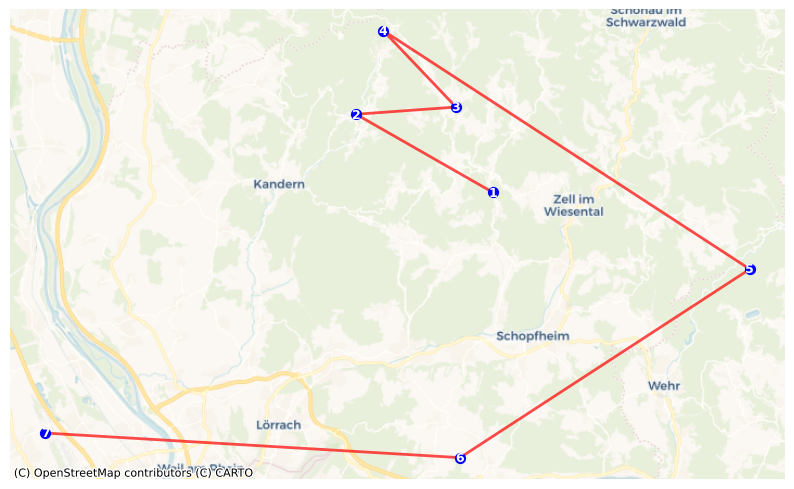
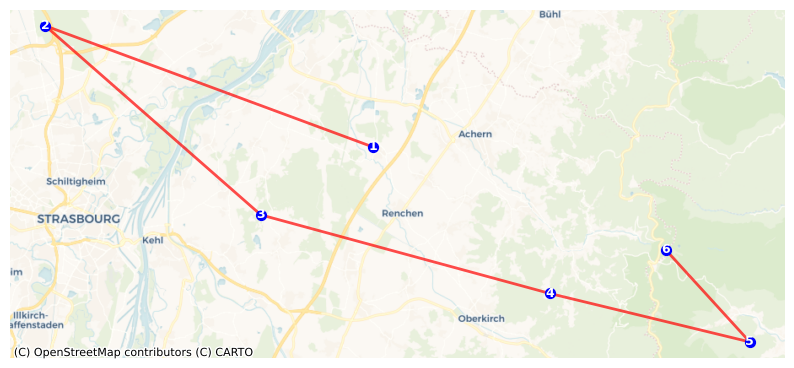
refactor

diff --git a/model_prediction.py b/model_prediction.py
@@ -1,0 +1,51 @@
+import numpy as np
+from sklearn.neighbors import NearestNeighbors
+from coordinate_utils import get_gps_data
+from generate_random_coordinates import generate_random_coordinates
+from optimization_problem import maximize_utility_with_distance_constraint
+from path_utils import get_case_study_image_paths, load_case_study_images
+from geopy.distance import geodesic
+from image_model_utils import extract_penultimate_features, get_anomaly_score
+from plot_solution import plot_path_on_map
+
+
+### Parameters ###
+MAXIMUM_TRAVEL_DISTANCE: float = 100 # in km
+
+
+if __name__ == "__main__":
+    case_study_images = load_case_study_images()
+    print(f"Loaded {len(case_study_images)} case study images")
+
+    ### Coordinate Extraction ###
+    coords = [get_gps_data(str(image_path)) for image_path in get_case_study_image_paths()]
+    features = np.array([extract_penultimate_features(image) for image in case_study_images])
+
+    ### Scoring ###
+    training_features = np.load("training_features.npy")
+    nn_model = NearestNeighbors(n_neighbors=5, algorithm='auto').fit(training_features)
+    scores = np.array([get_anomaly_score(image, nn_model) for image in case_study_images])
+
+    ### Optimization Data Collection ###
+    base_coordinates = generate_random_coordinates()
+    coordinates = [base_coordinates] + coords
+    distance_matrix = [
+        [geodesic(coord1, coord2).km for coord2 in coordinates]
+        for coord1 in coordinates
+    ]
+    scores = [0] + scores
+
+    optimal_predicted_path = maximize_utility_with_distance_constraint(
+        utilities=scores,
+        distance_matrix=distance_matrix,
+        D_max=MAXIMUM_TRAVEL_DISTANCE,
+        start_node=0
+    )
+
+    print(f"Optimal predicted path: {optimal_predicted_path.tour}")
+
+    plot_path_on_map(
+        locations=coordinates,
+        path_order=optimal_predicted_path.visited,
+        save_path="optimal_path_map.png"
+    )

diff --git a/path_utils.py b/path_utils.py
@@ -29,6 +29,10 @@ def get_normal_test_image_paths() -> list[Path]:
     image_files = glob.glob(os.path.join("data/test/normal", "*"))
     return [Path(image_file) for image_file in image_files][:10]
 
+def get_case_study_image_paths() -> list[Path]:
+    image_files = glob.glob(os.path.join("case_study_data", "*"))
+    return [Path(image_file) for image_file in image_files]
+
 def load_training_images() -> list[Image.Image]:
     return load_images(get_training_image_paths())
 
@@ -38,3 +42,7 @@ def load_abnormal_test_images() -> list[Image.Image]:
 
 def load_normal_test_images() -> list[Image.Image]:
     return load_images(get_normal_test_image_paths())
+
+
+def load_case_study_images() -> list[Image.Image]:
+    return load_images(get_case_study_image_paths())

diff --git a/optimization_problem.py b/optimization_problem.py
@@ -23,7 +23,7 @@ def maximize_utility_with_distance_constraint(utilities: list[float], distance_m
     s = model.addVars(n, vtype=GRB.CONTINUOUS, lb=0, ub=n-1, name='s')
 
     # Objective: maximize total utility
-    model.setObjective(gp.quicksum(utilities[i] * x[i] for i in range(n)), GRB.MAXIMIZE)
+    model.setObjective(gp.quicksum(utilities[i] * x[i] for i in range(n)) - gp.quicksum(0.01*distance_matrix[i][j]*y[i, j] for i in range(n) for j in range(n)), GRB.MAXIMIZE)
 
     # Constraint: total distance must be within D_max
     model.addConstr(gp.quicksum(distance_matrix[i][j] * y[i,j] for i in range(n) for j in range(n)) <= D_max, 'DistanceConstraint')

diff --git a/model_training.py b/model_training.py
@@ -1,0 +1,14 @@
+import numpy as np
+from path_utils import load_training_images
+from image_model_utils import extract_penultimate_features
+
+if __name__ == "__main__":
+    ### Data Loading ###
+    training_images = load_training_images()
+    print(f"Loaded {len(training_images)} training images")
+
+    ### Feature Extraction ###
+    training_features = np.array([extract_penultimate_features(image) for image in training_images])
+
+    ### Serialization ###
+    np.save("training_features.npy", training_features)
